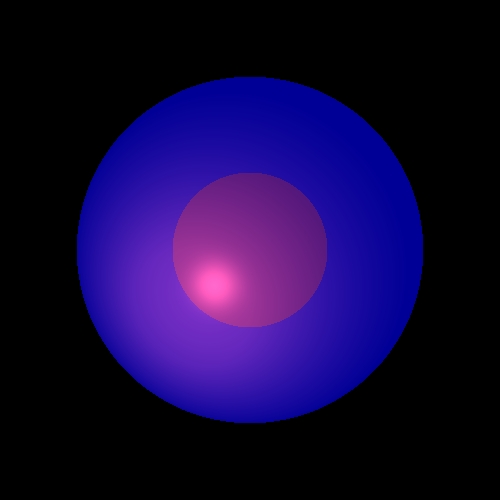
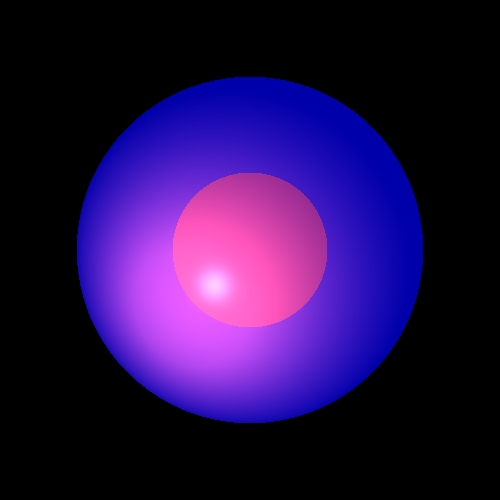
11

Changed region(s): [[0.15, 0.21, 0.78, 0.84]]

diff --git a/tar1_primitives/src/unittests/RenderTest.java b/tar1_primitives/src/unittests/RenderTest.java
@@ -196,10 +196,9 @@ public class RenderTest extends TestCase {
 	 */
 	public void testRenderImage9() throws IOException, SAXException, ParserConfigurationException {
 		SceneBuilder scene = new SceneBuilder();
-<<<<<<< HEAD
+
 		// XMLBuilder xmlBuilder = new XMLBuilder();
-=======
->>>>>>> branch 'master' of https://github.com/SimchaPo/project_Shlomo_Simcha.git
+
 		File _file = new File("newTestnewXML.xml");
 		scene.loadSceneFromFile(_file);
 		System.out.println(scene.getScene().getLights());
@@ -214,12 +213,12 @@ public class RenderTest extends TestCase {
 	public void testRenderImage10() {
 		Scene scene = new Scene();
 		scene.setCamera(new Camera(), 100);
-		Sphere sphere = new Sphere(new Point3D(0.0, 0.0, -1000), 500, new Color(0, 0, 100), new Material(1,1, 40));
+		Sphere sphere = new Sphere(new Point3D(0.0, 0.0, -1000), 500, new Color(0, 0, 100), new Material(1, 1, 40));
 		scene.addGeometries(sphere);
 		Triangle triangle1 = new Triangle(new Point3D(3500, 3500, -2000), new Point3D(-3500, -3500, -1000),
-				new Point3D(3500, -3500, -2000), new Color(), new Material(1,1, 40));
+				new Point3D(3500, -3500, -2000), new Color(), new Material(1, 1, 40));
 		Triangle triangle2 = new Triangle(new Point3D(3500, 3500, -2000), new Point3D(-3500, 3500, -1000),
-				new Point3D(-3500, -3500, -1000), new Color(), new Material(1,1, 40));
+				new Point3D(-3500, -3500, -1000), new Color(), new Material(1, 1, 40));
 		scene.addGeometries(triangle1);
 		scene.addGeometries(triangle2);
 		scene.setLights(new SpotLight(new Point3D(200, 200, -100), 0, 0.000001, 0.0000005, new Color(255, 100, 100),
@@ -235,11 +234,11 @@ public class RenderTest extends TestCase {
 		scene.setCamera(new Camera(), 300);
 
 		Sphere sphere = new Sphere(new Point3D(0.0, 0.0, -1000), 500, new Color(0, 0, 100),
-				new Material(1,1, 40, 0,0.7));
+				new Material(1, 1, 40, 0, 0.7));
 		scene.addGeometries(sphere);
 
 		Sphere sphere2 = new Sphere(new Point3D(0.0, 0.0, -1000), 250, new Color(100, 20, 20),
-				new Material(1,1, 40, 0,0.2));
+				new Material(1, 1, 40, 0, 0.2));
 
 		scene.addGeometries(sphere2);
 
@@ -258,19 +257,19 @@ public class RenderTest extends TestCase {
 		scene.setCamera(new Camera(), 300);
 
 		Sphere sphere = new Sphere(new Point3D(-550, -500, -1000), 300, new Color(0, 0, 100),
-				new Material(1,1, 40, 0,0.7));
+				new Material(1, 1, 40, 0, 0.7));
 
 		scene.addGeometries(sphere);
 
 		Sphere sphere2 = new Sphere(new Point3D(-550, -500, -1000), 150, new Color(100, 20, 20),
-				new Material(1,1, 40, 0,0));
+				new Material(1, 1, 40, 0, 0));
 		scene.addGeometries(sphere2);
 
 		Triangle triangle = new Triangle(new Point3D(1500, -1500, -1500), new Point3D(-1500, 1500, -1500),
-				new Point3D(200, 200, -375), new Color(20, 20, 20), new Material(1,1, 40, 1,0));
+				new Point3D(200, 200, -375), new Color(20, 20, 20), new Material(1, 1, 40, 1, 0));
 
 		Triangle triangle2 = new Triangle(new Point3D(1500, -1500, -1500), new Point3D(-1500, 1500, -1500),
-				new Point3D(-1500, -1500, -1500), new Color(20, 20, 20), new Material(1,1, 40, 1,0));
+				new Point3D(-1500, -1500, -1500), new Color(20, 20, 20), new Material(1, 1, 40, 1, 0));
 		scene.addGeometries(triangle);
 		scene.addGeometries(triangle2);
 

diff --git a/tar1_primitives/src/scene/SceneBuilder.java b/tar1_primitives/src/scene/SceneBuilder.java
@@ -93,27 +93,65 @@ public class SceneBuilder {
 			boolean spotLight = false;
 			boolean directLight = false;
 			double kCTmp = 0.0, kLTmp = 0.0, kQTmp = 0.0;
+
 			for (Map.Entry<String, String> entry : map.entrySet()) {
-				if ("direction" == entry.getKey()) {
+				switch (entry.getKey()) {
+				case "direction": {
 					rgb = stringSplitter(entry.getValue());
 					_VTo = new Vector(rgb[0], rgb[1], rgb[2]);
 					directLight = true;
-				} else if ("kC" == entry.getKey()) {
+					break;
+				}
+				case "kC": {
 					kCTmp = Double.parseDouble(entry.getValue());
 					spotLight = true;
-				} else if ("kL" == entry.getKey()) {
+					break;
+				}
+				case "kL": {
 					kLTmp = Double.parseDouble(entry.getValue());
-				} else if ("kQ" == entry.getKey()) {
+					spotLight = true;
+					break;
+				}
+				case "kQ": {
 					kQTmp = Double.parseDouble(entry.getValue());
-				} else if ("light-color" == entry.getKey()) {
+					spotLight = true;
+					break;
+				}
+				case "light-color": {
 					System.out.println(entry.getValue());
 					rgb = stringSplitter(entry.getValue());
 					C2.setColor(rgb[0], rgb[1], rgb[2]);
-				} else if ("point" == entry.getKey()) {
+					break;
+				}
+				case "point": {
 					rgb = stringSplitter(entry.getValue());
 					_P0 = new Point3D(rgb[0], rgb[1], rgb[2]);
+					break;
+				}
+				default:
+					break;
 				}
 			}
+//				if ("direction" == entry.getKey()) {
+//					rgb = stringSplitter(entry.getValue());
+//					_VTo = new Vector(rgb[0], rgb[1], rgb[2]);
+//					directLight = true;
+//				} else if ("kC" == entry.getKey()) {
+//					kCTmp = Double.parseDouble(entry.getValue());
+//					spotLight = true;
+//				} else if ("kL" == entry.getKey()) {
+//					kLTmp = Double.parseDouble(entry.getValue());
+//				} else if ("kQ" == entry.getKey()) {
+//					kQTmp = Double.parseDouble(entry.getValue());
+//				} else if ("light-color" == entry.getKey()) {
+//					System.out.println(entry.getValue());
+//					rgb = stringSplitter(entry.getValue());
+//					C2.setColor(rgb[0], rgb[1], rgb[2]);
+//				} else if ("point" == entry.getKey()) {
+//					rgb = stringSplitter(entry.getValue());
+//					_P0 = new Point3D(rgb[0], rgb[1], rgb[2]);
+//				}
+//			}
 			if (directLight) {
 				if (spotLight) {
 					_scene.setLights(new SpotLight(_P0, kCTmp, kLTmp, kQTmp, C2, _VTo));

diff --git a/tar1_primitives/src/parser/Sax_handler.java b/tar1_primitives/src/parser/Sax_handler.java
@@ -82,6 +82,7 @@ public class Sax_handler extends DefaultHandler {
 			_lightMap.put(KL, atts.getValue(KL));
 			_lightMap.put(KQ, atts.getValue(KQ));
 			_lightMap.put(DIRECTION, atts.getValue(DIRECTION));
+			System.out.println(_lightMap.keySet().toString()+_lightMap.values().toString());
 		}
 		if (_qName == CAMERA) {
 			System.out.println(_qName + " " + "startElement");
